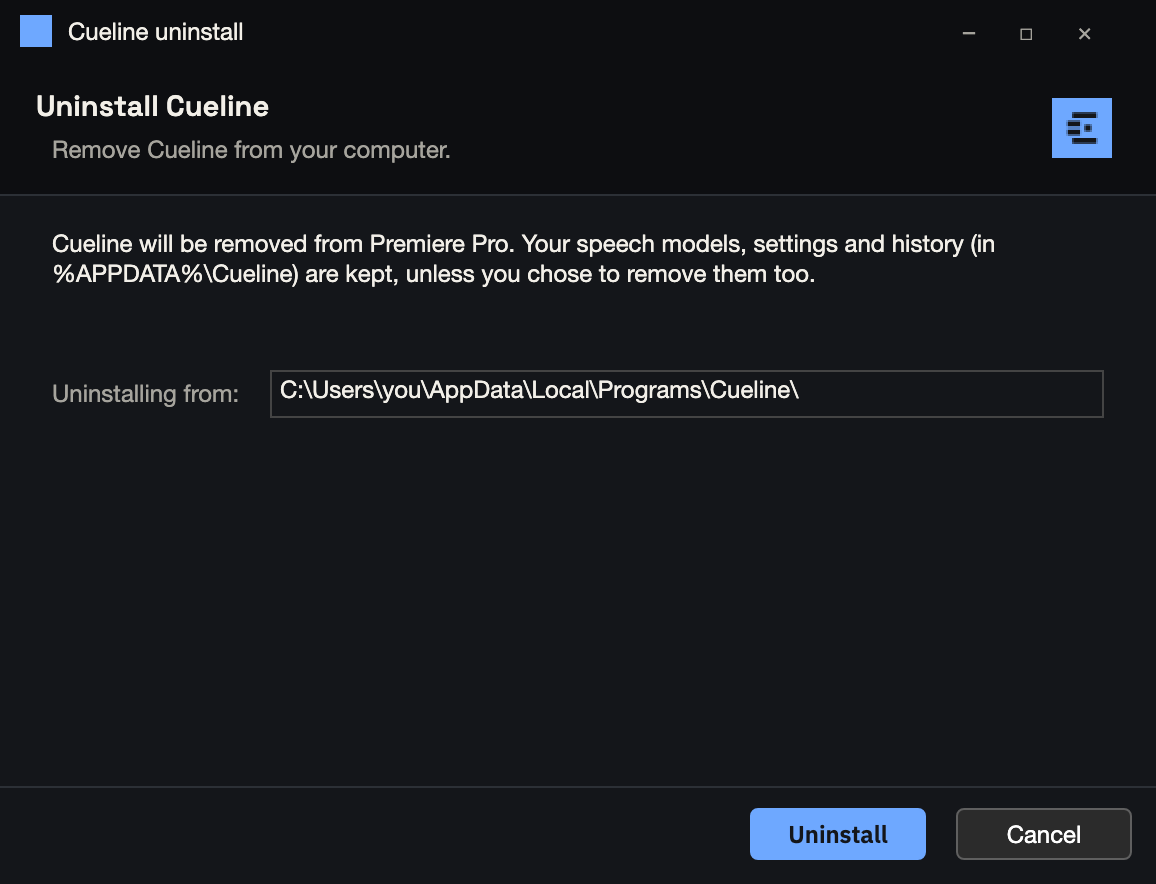
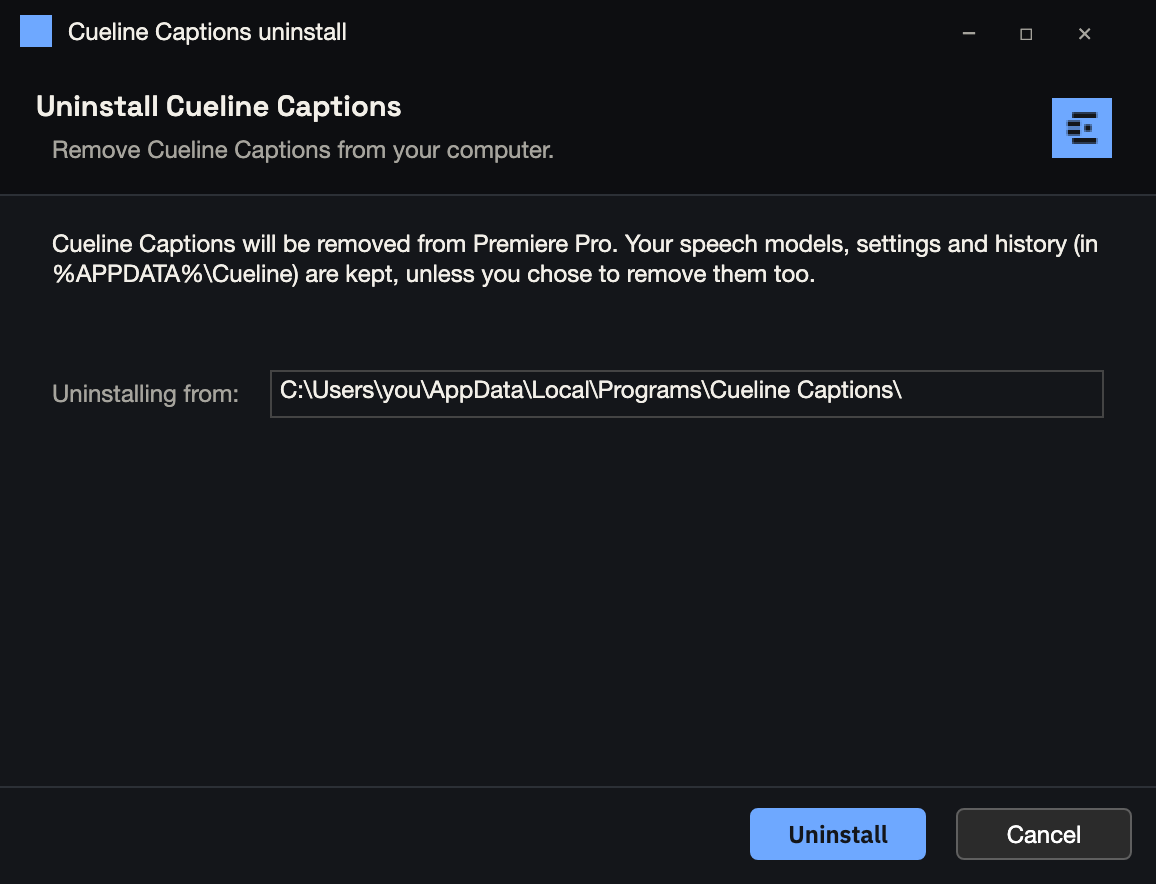
Name the product Cueline Captions: panel menu and header, About, installers, README, wiki

diff --git a/extension/js/panel.js b/extension/js/panel.js
@@ -101,9 +101,9 @@
         ${S.job && S.job.running ? '<button class="btn" type="button" data-act="stop">Stop</button>' : ""}
         <button class="btn icon" type="button" data-act="menu" aria-label="Menu" aria-haspopup="menu">${ICON.menu}</button>`;
     } else if (S.screen === "working") {
-      h = `${TILE}<div class="who"><div class="name">Cueline</div>${status}</div><button class="btn" type="button" data-act="stop">Stop</button>`;
+      h = `${TILE}<div class="who"><div class="name">Cueline Captions</div>${status}</div><button class="btn" type="button" data-act="stop">Stop</button>`;
     } else {
-      h = `${TILE}<div class="who"><div class="name">Cueline</div>${status}</div>
+      h = `${TILE}<div class="who"><div class="name">Cueline Captions</div>${status}</div>
         <button class="btn icon" type="button" data-act="history" aria-label="History">${ICON.history}</button>
         <button class="btn icon" type="button" data-act="menu" aria-label="Menu" aria-haspopup="menu">${ICON.menu}</button>`;
     }
@@ -779,7 +779,7 @@
       const row = (act, label, sub, extra) => `<button class="mrow" type="button" ${act}><span class="mtext"><span class="mlabel">${esc(label)}</span>${sub ? `<span class="msub">${sub}</span>` : ""}</span><span class="chev" aria-hidden="true">${extra == null ? "›" : extra}</span></button>`;
       const group = (title, rows) => `<div class="mgroup"><div class="label">${esc(title)}</div>${rows.join("")}</div>`;
       const inReview = S.screen === "review";
-      el.innerHTML = head("Cueline") + `<div class="screen-body">
+      el.innerHTML = head("Cueline Captions") + `<div class="screen-body">
         ${inReview ? group("This transcription", [
           row('data-act="undo"', undoStack.length ? `Undo ${undoStack[undoStack.length - 1].label.toLowerCase()}` : "Undo", "U", ""),
           row('data-act="redo"', "Redo", "⇧U", ""),
@@ -801,12 +801,12 @@
       const LOGO = TILE.replace('class="tile" width="28" height="28"', 'class="tile" width="64" height="64"');
       const credits = [["whisper.cpp", "MIT"], ["ivrit.ai Whisper models", "Apache-2.0"], ["OpenAI Whisper models", "MIT"], ["sherpa-onnx", "Apache-2.0"], ["pyannote segmentation 3.0", "MIT"], ["3D-Speaker CAM++", "Apache-2.0"], ["Silero VAD", "MIT"], ["IBM Plex", "OFL"]];
       el.innerHTML = head("About and help") + `<div class="screen-body">
-        <div class="about">${LOGO}<div><div class="t">Cueline</div><div class="s">for Adobe® Premiere Pro® · version ${VERSION}</div></div></div>
-        <div class="links">${[["Getting started", WIKI_URL], ["The Cueline panel", WIKI_URL + "/The-Cueline-panel"], ["Troubleshooting", WIKI_URL + "/Troubleshooting"], ["Report a problem", REPO_URL + "/issues"], ["Cueline on conformlabs.co", SITE_URL]]
+        <div class="about">${LOGO}<div><div class="t">Cueline Captions</div><div class="s">for Adobe® Premiere Pro® · version ${VERSION}</div></div></div>
+        <div class="links">${[["Getting started", WIKI_URL], ["The Cueline panel", WIKI_URL + "/The-Cueline-panel"], ["Troubleshooting", WIKI_URL + "/Troubleshooting"], ["Report a problem", REPO_URL + "/issues"], ["Cueline Captions on conformlabs.co", SITE_URL]]
           .map(([t, u]) => `<button type="button" data-url="${esc(u)}"><span>${esc(t)}</span><span aria-hidden="true">›</span></button>`).join("")}</div>
         <div class="credits"><span class="label">Built on</span>${credits.map(([n, l]) => `<div class="kv"><span>${esc(n)}</span><span class="mono-s">${l}</span></div>`).join("")}</div>
         <div class="spacer"></div>
-        <div class="sfoot">Made by Ron Yitzhaki at Conform Labs · MIT licence. Everything runs on this computer; nothing is uploaded. Adobe and Premiere Pro are trademarks of Adobe; Cueline is not affiliated with Adobe.</div>
+        <div class="sfoot">Made by Ron Yitzhaki at Conform Labs · MIT licence. Everything runs on this computer; nothing is uploaded. Adobe and Premiere Pro are trademarks of Adobe; Cueline Captions is not affiliated with Adobe.</div>
       </div>`;
     } else if (S.overlay === "update") {
       drawUpdate(el, head);
@@ -890,7 +890,7 @@
     const st = Host.engine.engineStatus(Host.extRoot), sys = Host.sysInfo(), ping = await Host.ping();
     const sp = Host.engine.speakerStatus ? Host.engine.speakerStatus(Host.extRoot) : {};
     const lines = [
-      `Cueline ${VERSION} · ${new Date().toISOString()}`,
+      `Cueline Captions ${VERSION} · ${new Date().toISOString()}`,
       `Host: ${ping.ok ? `Premiere Pro ${ping.app} (build ${ping.build || "?"})` : "not answering: " + ping.error}`,
       `System: ${sys.os} · CEP Node ${sys.node}`,
       `Extension: ${tilde(sys.extRoot)}`, `Data: ${tilde(sys.dataDir)}`, `Models: ${tilde(sys.modelsDir)}`,
@@ -1654,7 +1654,7 @@
     await go();
     if (S.cues[2]) select(S.cues[2].id);
   }, 600);
-  log(`Cueline ${VERSION} in ${Host.kind === "browser" ? "a browser (simulated Premiere Pro)" : "Premiere Pro"}`);
+  log(`Cueline Captions ${VERSION} in ${Host.kind === "browser" ? "a browser (simulated Premiere Pro)" : "Premiere Pro"}`);
   render();
   refresh();
   if (Host.kind === "premiere") Host.ping().then((r) => log(r.ok ? `Premiere Pro ${r.app}` : r.error));

diff --git a/installer/mac/pkg/resources/conclusion.body.html b/installer/mac/pkg/resources/conclusion.body.html
@@ -3,7 +3,7 @@
 <p class="for">@FOR@ · <span class="mono">@VERSION@</span></p>
 <ol>
 <li>Restart Premiere Pro if it is open.</li>
-<li>Open the panel: Window › Extensions › Cueline.</li>
+<li>Open the panel: Window › Extensions › Cueline Captions.</li>
 <li>The first time, Cueline downloads a speech model (about 1.6 GB). After that it works offline.</li>
 </ol>
 <p class="muted">Help: <a href="https://github.com/ConformLabs/cueline">github.com/ConformLabs/cueline</a></p>

diff --git a/extension/index.html b/extension/index.html
@@ -3,7 +3,7 @@
 <head>
 <meta charset="utf-8">
 <meta name="viewport" content="width=device-width, initial-scale=1">
-<title>Cueline</title>
+<title>Cueline Captions</title>
 <link rel="stylesheet" href="css/panel.css">
 </head>
 <body>

diff --git a/README.md b/README.md
@@ -13,7 +13,7 @@
 
 [![CI](https://github.com/ConformLabs/cueline/actions/workflows/ci.yml/badge.svg)](https://github.com/ConformLabs/cueline/actions/workflows/ci.yml)
 
-**Cueline turns the speech in a Premiere Pro sequence into captions on a caption track, on your computer.**
+**Cueline Captions turns the speech in a Premiere Pro sequence into captions on a caption track, on your computer.**
 It is made for Hebrew first, with ivrit.ai's model, and works in 99 other languages. Every caption is timed against the
 audio, checked against your caption style, fixed where it breaks it, and ready to review with the waveform and
 playback in Premiere Pro. Speakers are told apart by voice. Nothing is uploaded.
@@ -35,7 +35,7 @@ playback in Premiere Pro. Speakers are told apart by voice. Nothing is uploaded.
 - **Help:** [the wiki](https://github.com/ConformLabs/cueline/wiki): installing, the panel, speakers, troubleshooting.
 
 Premiere Pro's scripting can add caption tracks but not change them, so updating the timeline after edits adds a new
-caption track. On Windows, transcription runs on the CPU; on a Mac, on the GPU (Metal).
+caption track. Transcription runs on the graphics card: Metal on a Mac, Vulkan on Windows (NVIDIA, AMD or Intel; the CPU without a Vulkan driver).
 
 ```
 sequence audio ──> whisper.cpp (words) ──> timing from the audio ──> style check and fixes ──> caption track
@@ -73,7 +73,7 @@ Open `extension/index.html` through any static server to preview the panel with 
 Mac installer and the Windows Setup, and publishes the GitHub release. See `scripts/release.mjs`.
 
 MIT licence (see `LICENSE`). Adobe and Premiere Pro are either registered trademarks or trademarks of Adobe in the
-United States and/or other countries; Cueline is not affiliated with or endorsed by Adobe.
+United States and/or other countries; Cueline Captions is not affiliated with or endorsed by Adobe.
 
 Built on whisper.cpp (MIT), ivrit.ai models (Apache-2.0), sherpa-onnx (Apache-2.0), pyannote segmentation (MIT),
 3D-Speaker CAM++ (Apache-2.0), Silero VAD (MIT) and IBM Plex (OFL). See `PRIVACY.md` for every network request.

diff --git a/docs/wiki/Home.md b/docs/wiki/Home.md
@@ -1,6 +1,6 @@
-# Cueline for Adobe® Premiere Pro®
+# Cueline Captions for Adobe® Premiere Pro®
 
-Cueline turns the speech in a Premiere Pro sequence into captions on a caption track, on your computer. Nothing is
+Cueline Captions turns the speech in a Premiere Pro sequence into captions on a caption track, on your computer. Nothing is
 uploaded. It is made for Hebrew first (with ivrit.ai's model) and works in 99 other languages.
 
 ```
@@ -11,7 +11,7 @@ sequence audio ──> whisper.cpp (words) ──> timing from the audio ──>
 ## Getting started
 
 1. [Install Cueline](Installing) and restart Premiere Pro.
-2. Open the panel: **Window › Extensions › Cueline**.
+2. Open the panel: **Window › Extensions › Cueline Captions**.
 3. The first time, download a speech model (about 1.6 GB). For Hebrew, **ivrit.ai large-v3-turbo**. After that,
    Cueline works offline.
 4. Open a sequence. Set In/Out to caption part of it, or leave them off for the whole sequence.
@@ -39,7 +39,7 @@ sequence audio ──> whisper.cpp (words) ──> timing from the audio ──>
 
 - Premiere Pro 2022 (22.0) or later.
 - macOS 12 or later (Apple silicon or Intel), or Windows 10/11 64-bit.
-- About 2 GB of disk for a model. On a Mac, transcription uses the GPU (Metal); on Windows it runs on the CPU.
+- About 2 GB of disk for a model. Transcription runs on the graphics card: Metal on a Mac, Vulkan on Windows (NVIDIA, AMD or Intel graphics; a PC without a Vulkan driver uses the CPU).
 
 ## Help
 

diff --git a/docs/wiki/Troubleshooting.md b/docs/wiki/Troubleshooting.md
@@ -10,7 +10,7 @@
 | "The transcription engine is missing" | Run the installer again. |
 | "No model is downloaded yet" | **☰ › Models**, download one. |
 | A model download stops | Check the internet connection, then download it again in **☰ › Models**. |
-| Transcription is slow on Windows | Windows transcription runs on the CPU. Use **ivrit.ai large-v3-turbo** or **Whisper large-v3-turbo**, and keep **Skip silence** on. |
+| Transcription is slow on Windows | **☰ › Check Cueline** shows the engine: "Vulkan · <your graphics card>" is the GPU, "CPU" means the PC has no Vulkan driver (update the graphics driver). The first transcription on a PC is slower while the driver prepares the engine. Turbo models and **Skip silence** are fastest. |
 | **P** doesn't play | Premiere Pro starts playback only while it is the active app: click its timeline once, then press P again. |
 | Shortcuts don't work | Click in the Cueline panel first: Premiere Pro sends keys to the panel only while it has focus. |
 | Captions are on the wrong speaker | Click the tag › **Said by …**. See [Speakers](Speakers). |

diff --git a/docs/wiki/Installing.md b/docs/wiki/Installing.md
@@ -13,7 +13,7 @@ Both install for your user only. No administrator password or admin rights.
 
 1. Double-click `Cueline-<version>.pkg` and click through the installer.
 2. Restart Premiere Pro if it is open.
-3. **Window › Extensions › Cueline**.
+3. **Window › Extensions › Cueline Captions**.
 
 The package is signed and notarized by Apple. It installs the panel to
 `~/Library/Application Support/Adobe/CEP/extensions/com.conformlabs.cueline`.
@@ -22,7 +22,7 @@ The package is signed and notarized by Apple. It installs the panel to
 
 1. Double-click `Cueline-Setup-<version>.exe` and click through Setup.
 2. Restart Premiere Pro if it is open (Setup tells you when it is).
-3. **Window › Extensions › Cueline**.
+3. **Window › Extensions › Cueline Captions**.
 
 Setup is signed. It installs the panel to `%APPDATA%\Adobe\CEP\extensions\com.conformlabs.cueline` and adds
 Cueline to **Settings › Apps**, where you can uninstall it. Running Setup again offers **Update** or **Uninstall**.

diff --git a/docs/wiki/_Footer.md b/docs/wiki/_Footer.md
@@ -1,3 +1,3 @@
-Cueline for Adobe® Premiere Pro® · [Releases](https://github.com/ConformLabs/cueline/releases) · [Issues](https://github.com/ConformLabs/cueline/issues) · [conformlabs.co/cueline](https://conformlabs.co/cueline/) · MIT licence
+Cueline Captions for Adobe® Premiere Pro® · [Releases](https://github.com/ConformLabs/cueline/releases) · [Issues](https://github.com/ConformLabs/cueline/issues) · [conformlabs.co/cueline](https://conformlabs.co/cueline/) · MIT licence
 
-Adobe and Premiere Pro are either registered trademarks or trademarks of Adobe in the United States and/or other countries. Cueline is not affiliated with or endorsed by Adobe.
+Adobe and Premiere Pro are either registered trademarks or trademarks of Adobe in the United States and/or other countries. Cueline Captions is not affiliated with or endorsed by Adobe.

diff --git a/PRIVACY.md b/PRIVACY.md
@@ -1,6 +1,6 @@
 # Privacy
 
-Cueline is made by Conform Labs. It has no accounts, no analytics and no telemetry. Your audio, transcripts and
+Cueline Captions is made by Conform Labs. It has no accounts, no analytics and no telemetry. Your audio, transcripts and
 captions stay on your computer: transcription and speaker detection run locally.
 
 Cueline goes online only for these, each from the Cueline panel:

diff --git a/docs/wiki/The-Cueline-panel.md b/docs/wiki/The-Cueline-panel.md
@@ -1,6 +1,6 @@
 # The Cueline panel
 
-**Window › Extensions › Cueline.** The panel works narrow (docked in a column) and wide: at 760 px and wider, review
+**Window › Extensions › Cueline Captions.** The panel works narrow (docked in a column) and wide: at 760 px and wider, review
 shows the list and the selected caption side by side, with a strip of all captions underneath.
 
 ## Main screen

diff --git a/docs/wiki/FAQ.md b/docs/wiki/FAQ.md
@@ -17,4 +17,4 @@ speaker can have their own.
 Yes, once the models are downloaded.
 
 **Mac or Windows?**
-Both. On a Mac, transcription uses the GPU; on Windows, the CPU.
+Both. Transcription runs on the graphics card: Metal on a Mac, Vulkan on Windows (the CPU when a PC has no Vulkan driver).
